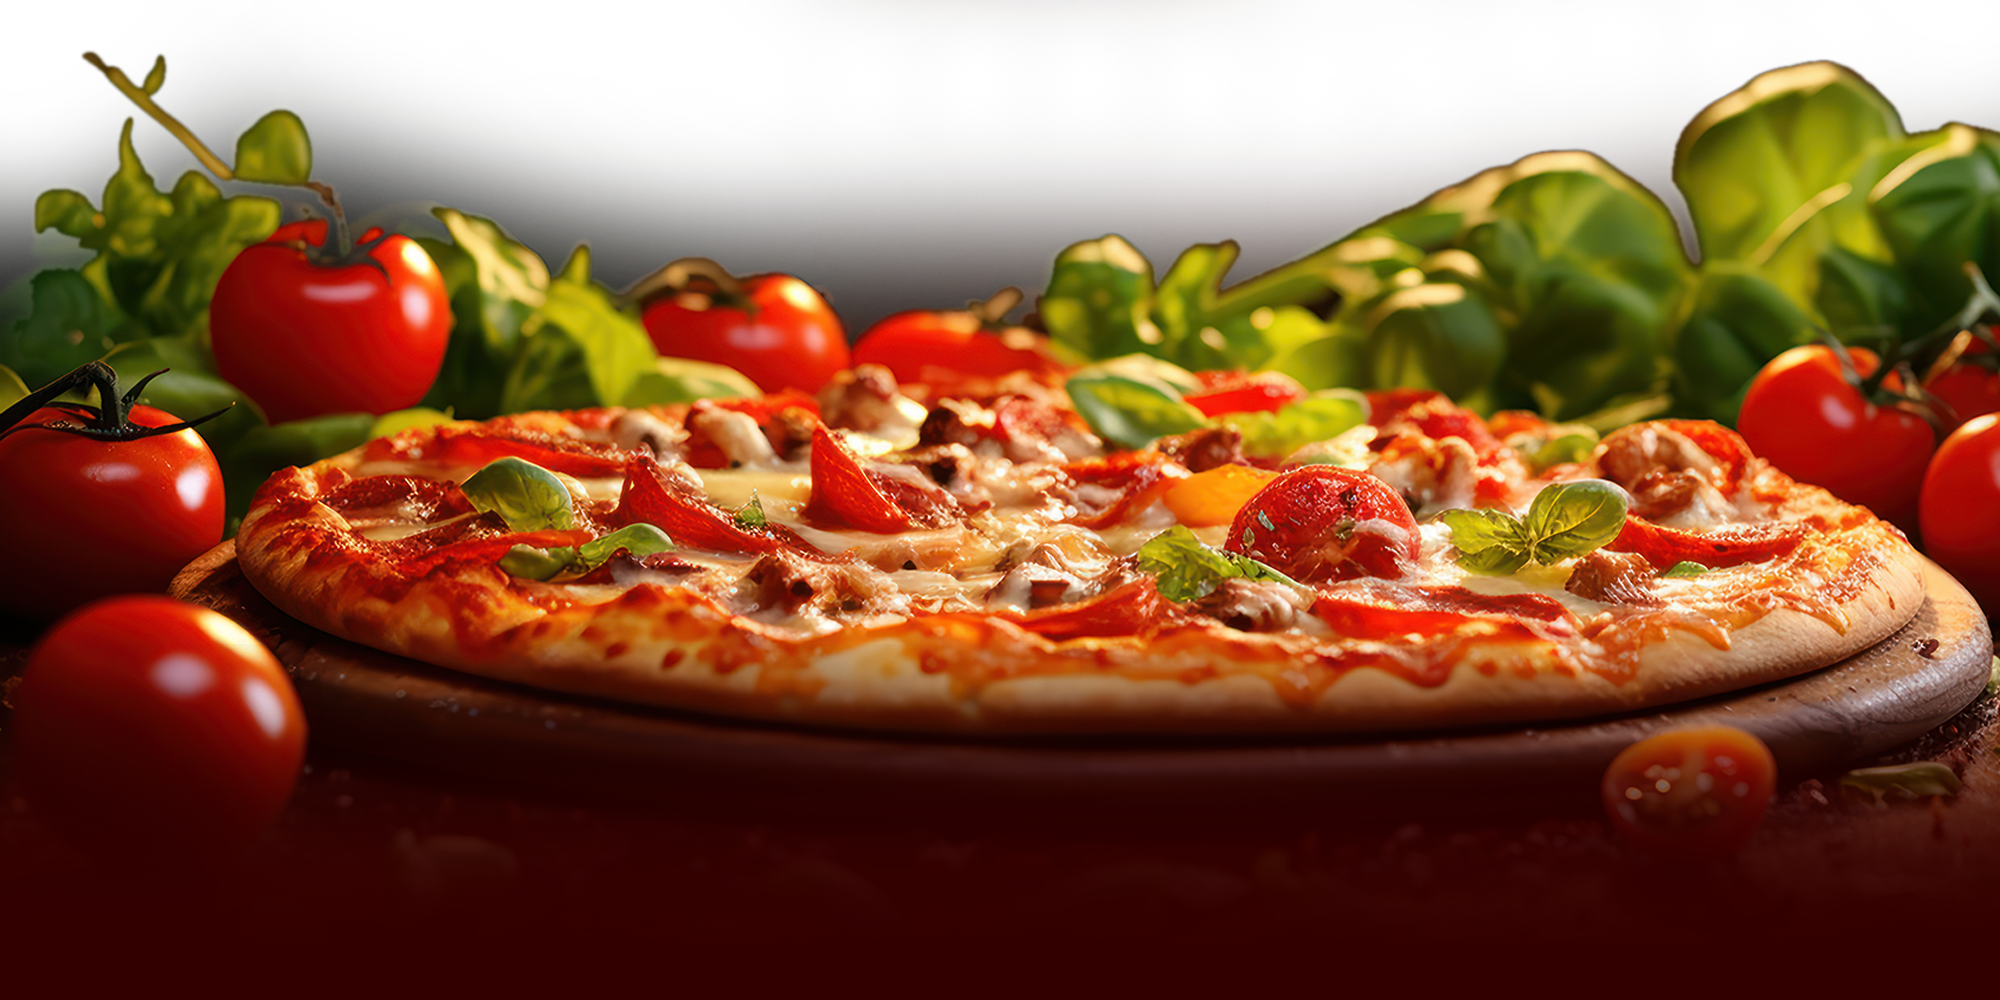
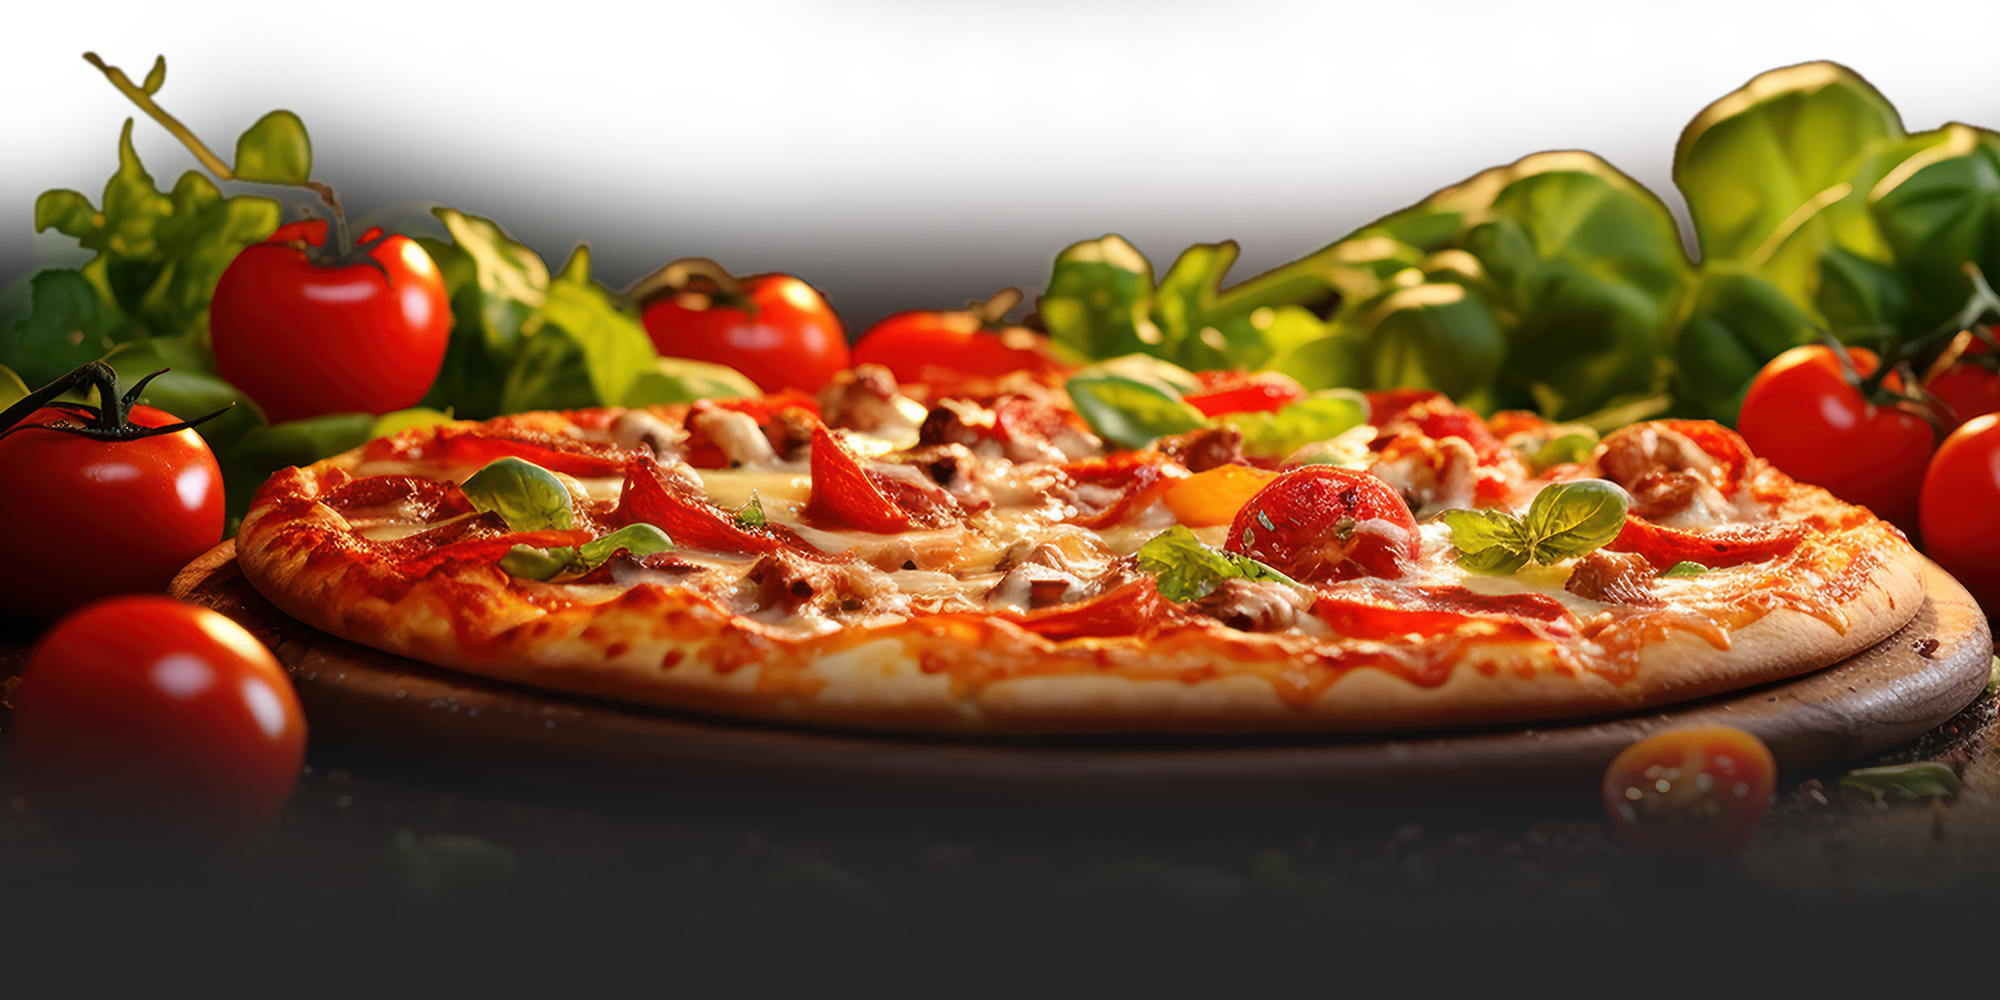
bg color updated

Changed region(s): [[0.0, 0.775, 1.0, 1.0]]

diff --git a/client/src/App.jsx b/client/src/App.jsx
@@ -5,7 +5,7 @@ import { Background } from "./components/background/Background";
 
 function App() {
   return (
-    <div className="bg-k-background h-screen">
+    <div className="bg-neutral-800 h-screen">
       <Navbar />
       <Routes>
         <Route path="/" element={<Home />} />
